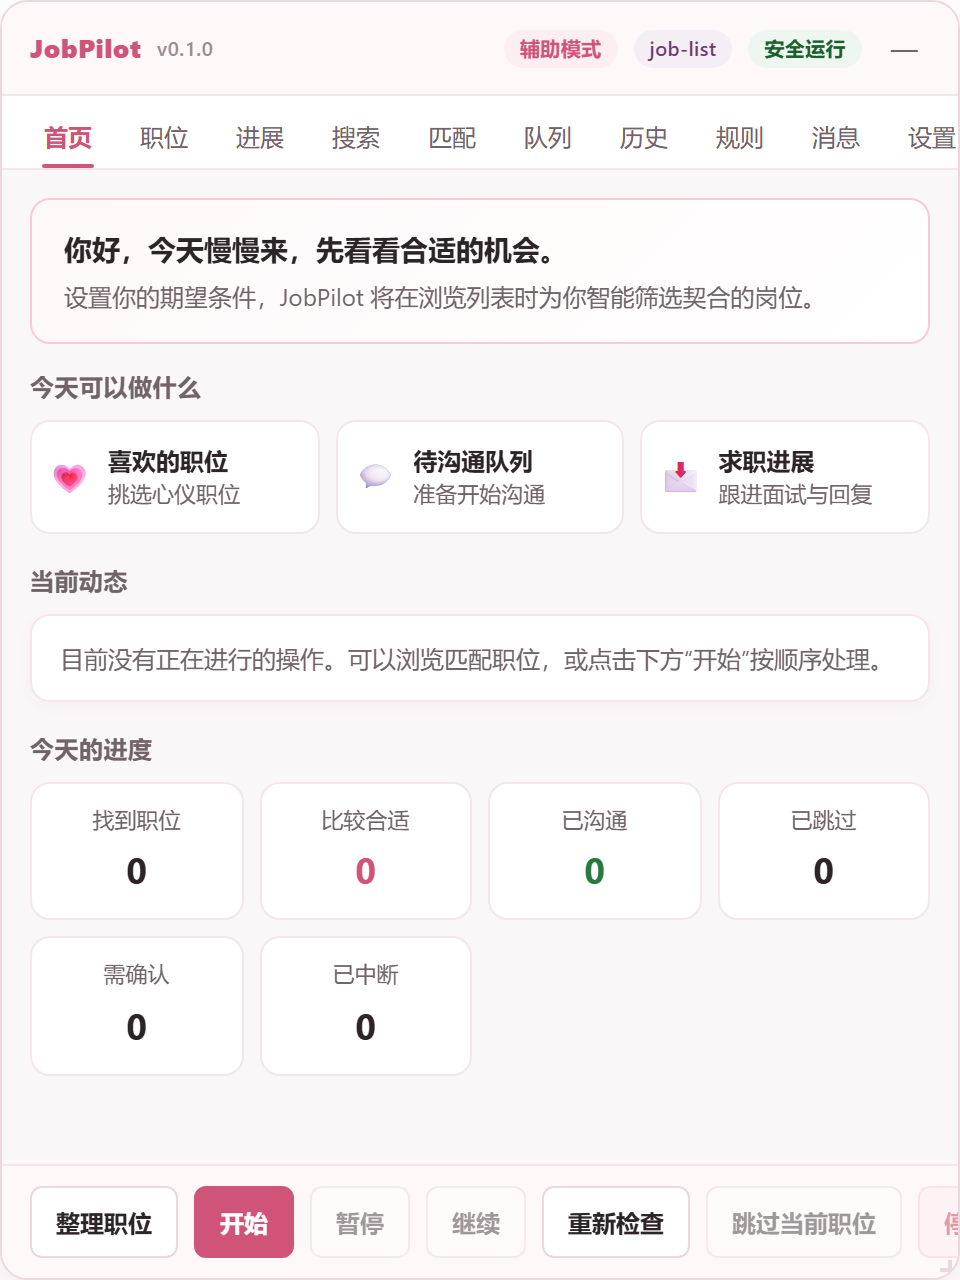
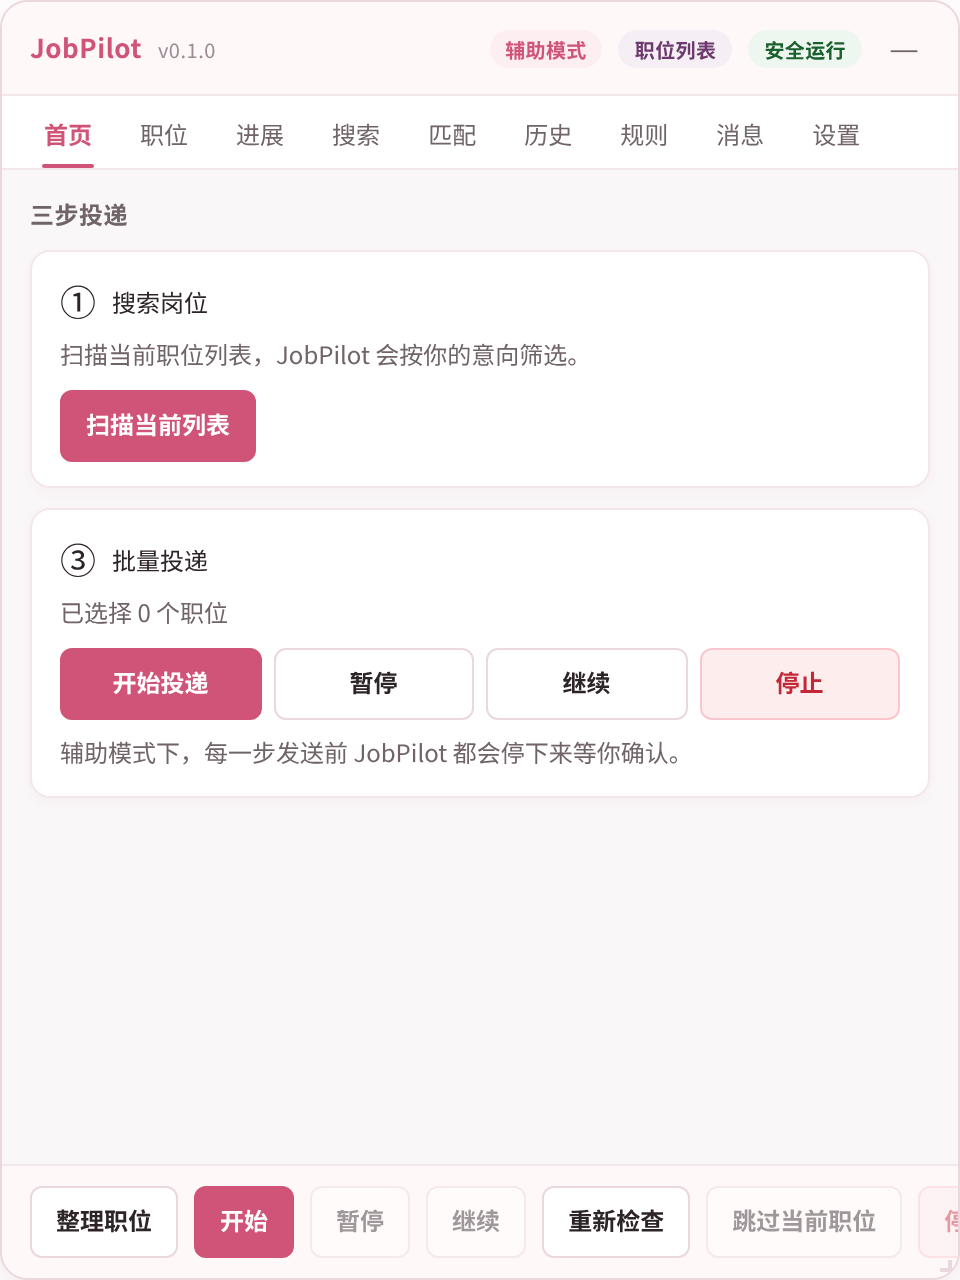
feat: render the operator run log under the batch flow
The batch engine threaded a capped run log through bootstrap into
HomePageInput but nothing rendered it — the field was a placeholder for
a follow-up. This is that follow-up.

The Home page now shows 本次运行记录 under the three-step flow once
anything has happened: newest first, capped to 20 visible rows inside a
scrollable list (the log itself stays capped at 80 in bootstrap). Before
the first action the block is hidden entirely so the page stays calm.
Both locales carry the new key, and unit tests pin the hidden-before-
first-run and newest-first rendering.

diff --git a/src/ui/pages/home.ts b/src/ui/pages/home.ts
@@ -30,8 +30,9 @@ export interface HomePageInput {
   /** Human-readable result of the last scan, shown under step ①. */
   readonly discoveryNote?: string | undefined;
   /**
-   * Operator-facing run log, newest first. Rendered by a follow-up; the field
-   * exists now so callers can thread it without a signature change later.
+   * Operator-facing run log of the current batch, newest first. Rendered as a
+   * calm record under step ③ so the operator can see what the batch did
+   * without opening the diagnostics view.
    */
   readonly runLog?: readonly { readonly time: string; readonly text: string }[] | undefined;
   /** Number of currently selected matches. Defaults to counting `matches`. */
@@ -317,6 +318,41 @@ export const renderHomePage = (doc: Document, input: HomePageInput): HTMLElement
   step3Hint.style.color = "var(--jp-text-secondary)";
   step3.append(step3Hint);
   stepsWrapper.append(step3);
+
+  // Operator run log: what the batch did, newest first. Rendered only once
+  // something has actually happened; hidden entirely otherwise so the Home
+  // page stays calm before the first run.
+  const runLog = input.runLog ?? [];
+  if (runLog.length > 0) {
+    const runLogCard = el(doc, "div", "jobpilot-card");
+    runLogCard.style.marginTop = "8px";
+    runLogCard.append(el(doc, "div", "jobpilot-step-title", t("home.runLogTitle")));
+
+    const logList = el(doc, "div", "jobpilot-step-run-log");
+    logList.style.marginTop = "8px";
+    logList.style.maxHeight = "140px";
+    logList.style.overflowY = "auto";
+    logList.style.display = "flex";
+    logList.style.flexDirection = "column";
+    logList.style.gap = "2px";
+
+    for (const entry of runLog.slice(0, 20)) {
+      const row = el(doc, "div", "jobpilot-step-run-log-row");
+      row.style.display = "flex";
+      row.style.gap = "8px";
+      row.style.fontSize = "12px";
+      row.style.color = "var(--jp-text-secondary)";
+      const time = el(doc, "span", undefined, entry.time);
+      time.style.flexShrink = "0";
+      const text = el(doc, "span", undefined, entry.text);
+      text.style.minWidth = "0";
+      text.style.overflowWrap = "anywhere";
+      row.append(time, text);
+      logList.append(row);
+    }
+    runLogCard.append(logList);
+    stepsWrapper.append(runLogCard);
+  }
 
   container.append(stepsWrapper);
 

diff --git a/tests/unit/ui/home-page.test.ts b/tests/unit/ui/home-page.test.ts
@@ -131,4 +131,35 @@ describe("renderHomePage three-step flow", () => {
     expect(page.textContent).toContain("已选择 1 个职位");
     expect(page.textContent).toContain("共找到 2 个职位");
   });
+
+  it("hides the run log entirely before anything has run", () => {
+    const doc = makeDoc();
+    const page = renderHomePage(doc, {
+      decisions: [],
+      callbacks: callbacksWith(),
+    });
+
+    expect(page.querySelector(".jobpilot-step-run-log")).toBeNull();
+    expect(page.textContent).not.toContain("本次运行记录");
+  });
+
+  it("renders the operator run log newest-first under the steps", () => {
+    const doc = makeDoc();
+    const page = renderHomePage(doc, {
+      decisions: [],
+      callbacks: callbacksWith(),
+      runLog: [
+        { time: "10:00:01", text: "开始投递" },
+        { time: "10:00:00", text: "开始扫描职位" },
+      ],
+    });
+
+    const logRows = Array.from(page.querySelectorAll(".jobpilot-step-run-log-row"));
+    expect(logRows).toHaveLength(2);
+    expect(logRows[0]?.textContent).toBe("10:00:01开始投递");
+    expect(logRows[1]?.textContent).toBe("10:00:00开始扫描职位");
+    // The log appears after the three-step cards, keeping the flow calm.
+    const steps = page.querySelector(".jobpilot-section");
+    expect(steps?.querySelector(".jobpilot-step-run-log")).not.toBeNull();
+  });
 });

diff --git a/src/ui/i18n/zh-CN.ts b/src/ui/i18n/zh-CN.ts
@@ -101,6 +101,7 @@ export const zhCN = {
     step3Selected: "已选择 {count} 个职位",
     step3Start: "开始投递",
     step3Hint: "辅助模式下，每一步发送前 JobPilot 都会停下来等你确认。",
+    runLogTitle: "本次运行记录",
   },
   blocked: {
     verificationTitle: "需要你完成一下验证",

diff --git a/src/ui/i18n/en.ts b/src/ui/i18n/en.ts
@@ -100,6 +100,7 @@ export const en = {
     step3Selected: "{count} selected",
     step3Start: "Start Applying",
     step3Hint: "In assist mode, JobPilot pauses before every send and waits for your confirmation.",
+    runLogTitle: "Run Log",
   },
   blocked: {
     verificationTitle: "Verification Required",
